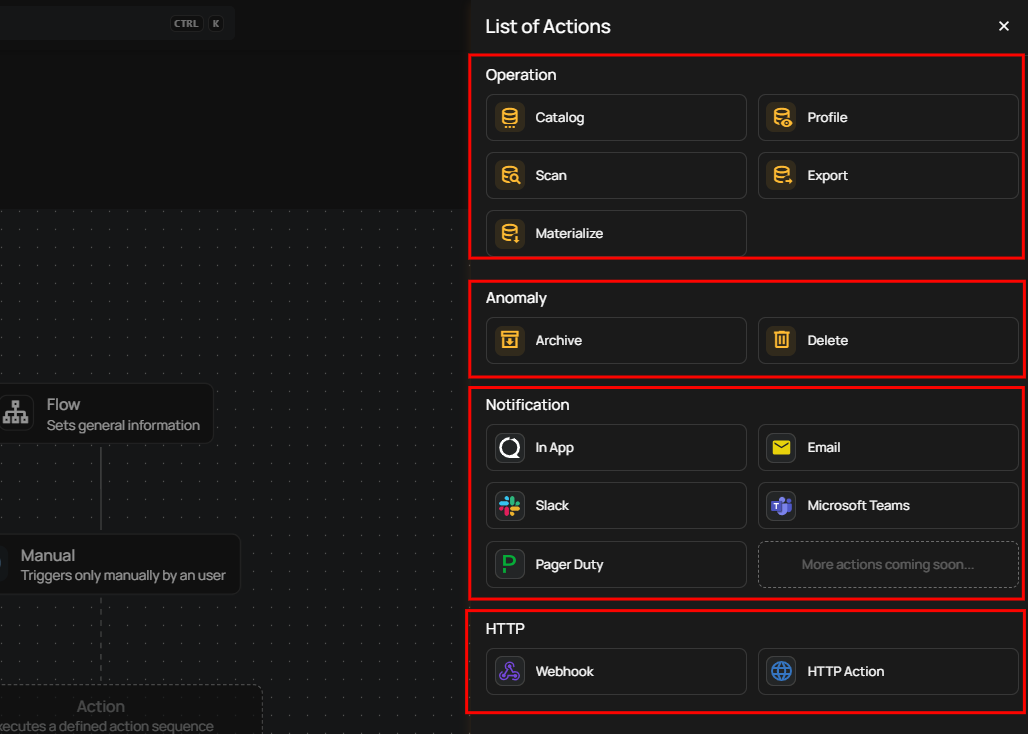
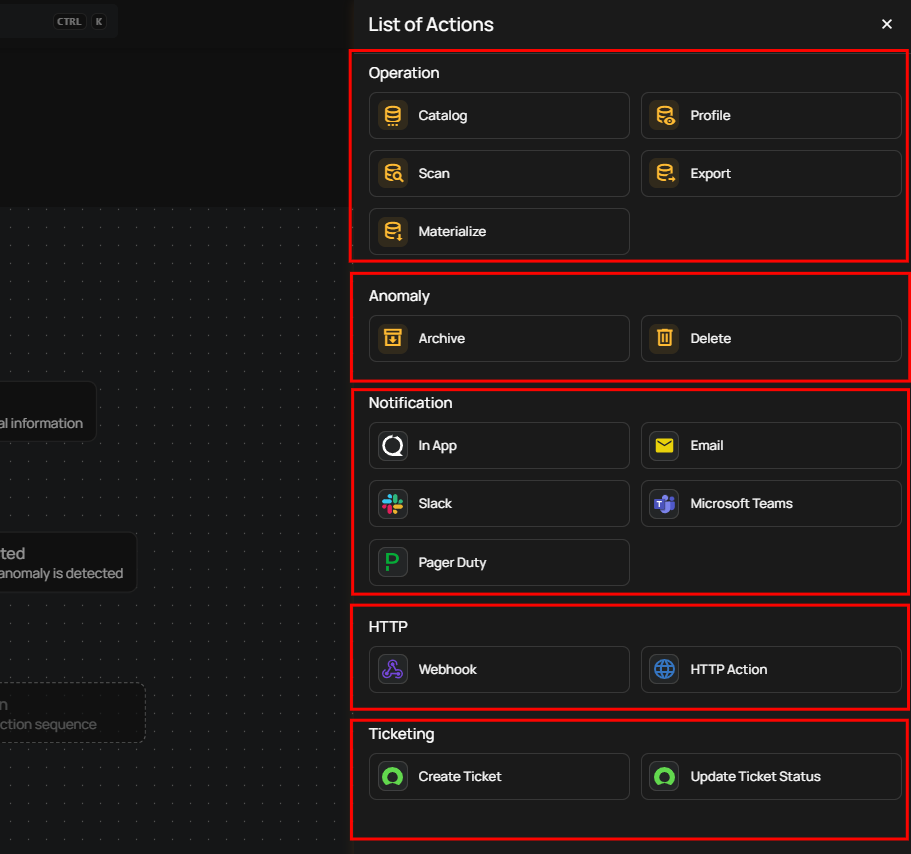
QUA-1372: Add "Ticketing Feature" as per the latest release.

diff --git a/docs/flows/ticketing.md b/docs/flows/ticketing.md
@@ -1,0 +1,87 @@
+# Ticketing
+
+Ticketing actions allow you to automatically create and manage tickets when anomaly-related events occur. These actions help teams track data quality issues and ensure they are routed to the appropriate owners for investigation and resolution.
+
+Ticketing actions are configured as **Flow actions** and execute when a supported trigger condition is met.
+
+## Available Ticketing Actions
+
+Flows support the following ticketing actions:
+
+- **Create Ticket** – Creates a new ticket when the Flow is triggered.
+- **Update Ticket Status** – Updates the status of an existing ticket.
+
+![available](../assets/flows/available.png)
+
+These actions are available under the **Ticketing** section when adding an action to a Flow.
+
+## Create Ticket
+
+The **Create Ticket** action automatically creates a new ticket when the Flow is triggered. This action is typically used to open a ticket when an anomaly is detected or when an anomaly changes to a specific status.
+
+![create-ticket](../assets/flows/create-ticket.png)
+
+### Configuration
+
+When configuring the **Create Ticket** action, provide the following details:
+
+| No. | Field             | Description                                                                 |
+|-----|-------------------|-----------------------------------------------------------------------------|
+| 1.   | Short Description | A concise summary that clearly identifies the issue at a glance.            |
+| 2.   | Description       | A detailed explanation of the data quality issue, including relevant context or observations. |
+| 3.   | Status            | Indicates the current state of the ticket when it is created (for example, *New*). |
+| 4.   | Priority          | Defines the importance of the issue in relation to other reported issues.   |
+| 5.   | Urgency           | Specifies how quickly the issue needs to be addressed.                      |
+| 6.   | Impact            | Describes the potential business or operational impact of the issue.        |
+| 7.   | Category          | Represents the high-level classification of the issue (for example, *Data Quality*). |
+| 8.   | Subcategory       | Provides a more specific classification within the selected category (for example, *Validation Error*). |
+| 9.   | Assignment Group  | Identifies the team or group responsible for investigating and resolving the issue. |
+| 10.  | Assigned To       | Specifies the individual responsible for working on the ticket.             |
+
+![configuration](../assets/flows/configuration-2.png)
+
+After completing the configuration, click **Save** to add the action to the Flow.
+
+![save](../assets/flows/save.png)
+
+## Update Ticket Status
+
+The **Update Ticket Status** action updates the status of an existing ticket when the Flow is triggered. This action is commonly used to reflect progress or resolution as anomaly conditions change.
+
+![update-ticket-status](../assets/flows/update-ticket-status.png)
+
+### Configuration
+
+| Field | Description |
+|------|-------------|
+| **Target Ticket Status** | The status to apply to the ticket (for example, *In Progress*, *Resolved*, or *Closed*). |
+
+![configuration](../assets/flows/target-ticket-status.png)
+
+After configuring the target status, click **Save** to add the action to the Flow.
+
+![save](../assets/flows/save-2.png)
+
+## Notifications for Ticketing Actions
+
+Flows can send notifications when ticketing actions are executed.
+
+### Supported Notification Channels
+
+- **Slack**
+- **Microsoft Teams**
+
+Notifications are available after a **Create Ticket** or **Update Ticket Status** action is configured and executed within a Flow.
+
+!!! info 
+    Trigger Compatibility
+    Ticketing actions are validated to ensure compatibility with the following trigger types:
+
+    - **Anomaly**
+    - **Anomaly Status Change**
+
+    Ticketing actions are not supported with **Manual** or **Scheduled** triggers.
+
+!!! warning 
+    Integration Availability
+    If required ticketing or notification integrations (such as Slack or Microsoft Teams) are unavailable during Flow execution, ticketing actions may not complete successfully. Execution details are logged to assist with troubleshooting and error analysis.

diff --git a/docs/flows/overview-action.md b/docs/flows/overview-action.md
@@ -14,6 +14,8 @@ A panel will appear on the right-hand side displaying the list of available acti
 
 * HTTP.
 
+* Ticketing.
+
 ![actionlist](../assets/flows/actionlist-light-23.png)
 
 !!! info
@@ -38,6 +40,11 @@ A panel will appear on the right-hand side displaying the list of available acti
 
 !!! note
     For more detailed information, review the [http documentation](../flows/http.md){target="_blank"}.
+
+## Ticketing
+
+!!! note
+    For more detailed information, review the [ticketing documentation](../flows/ticketing.md){target="_blank"}
 
 ## FAQ
 
